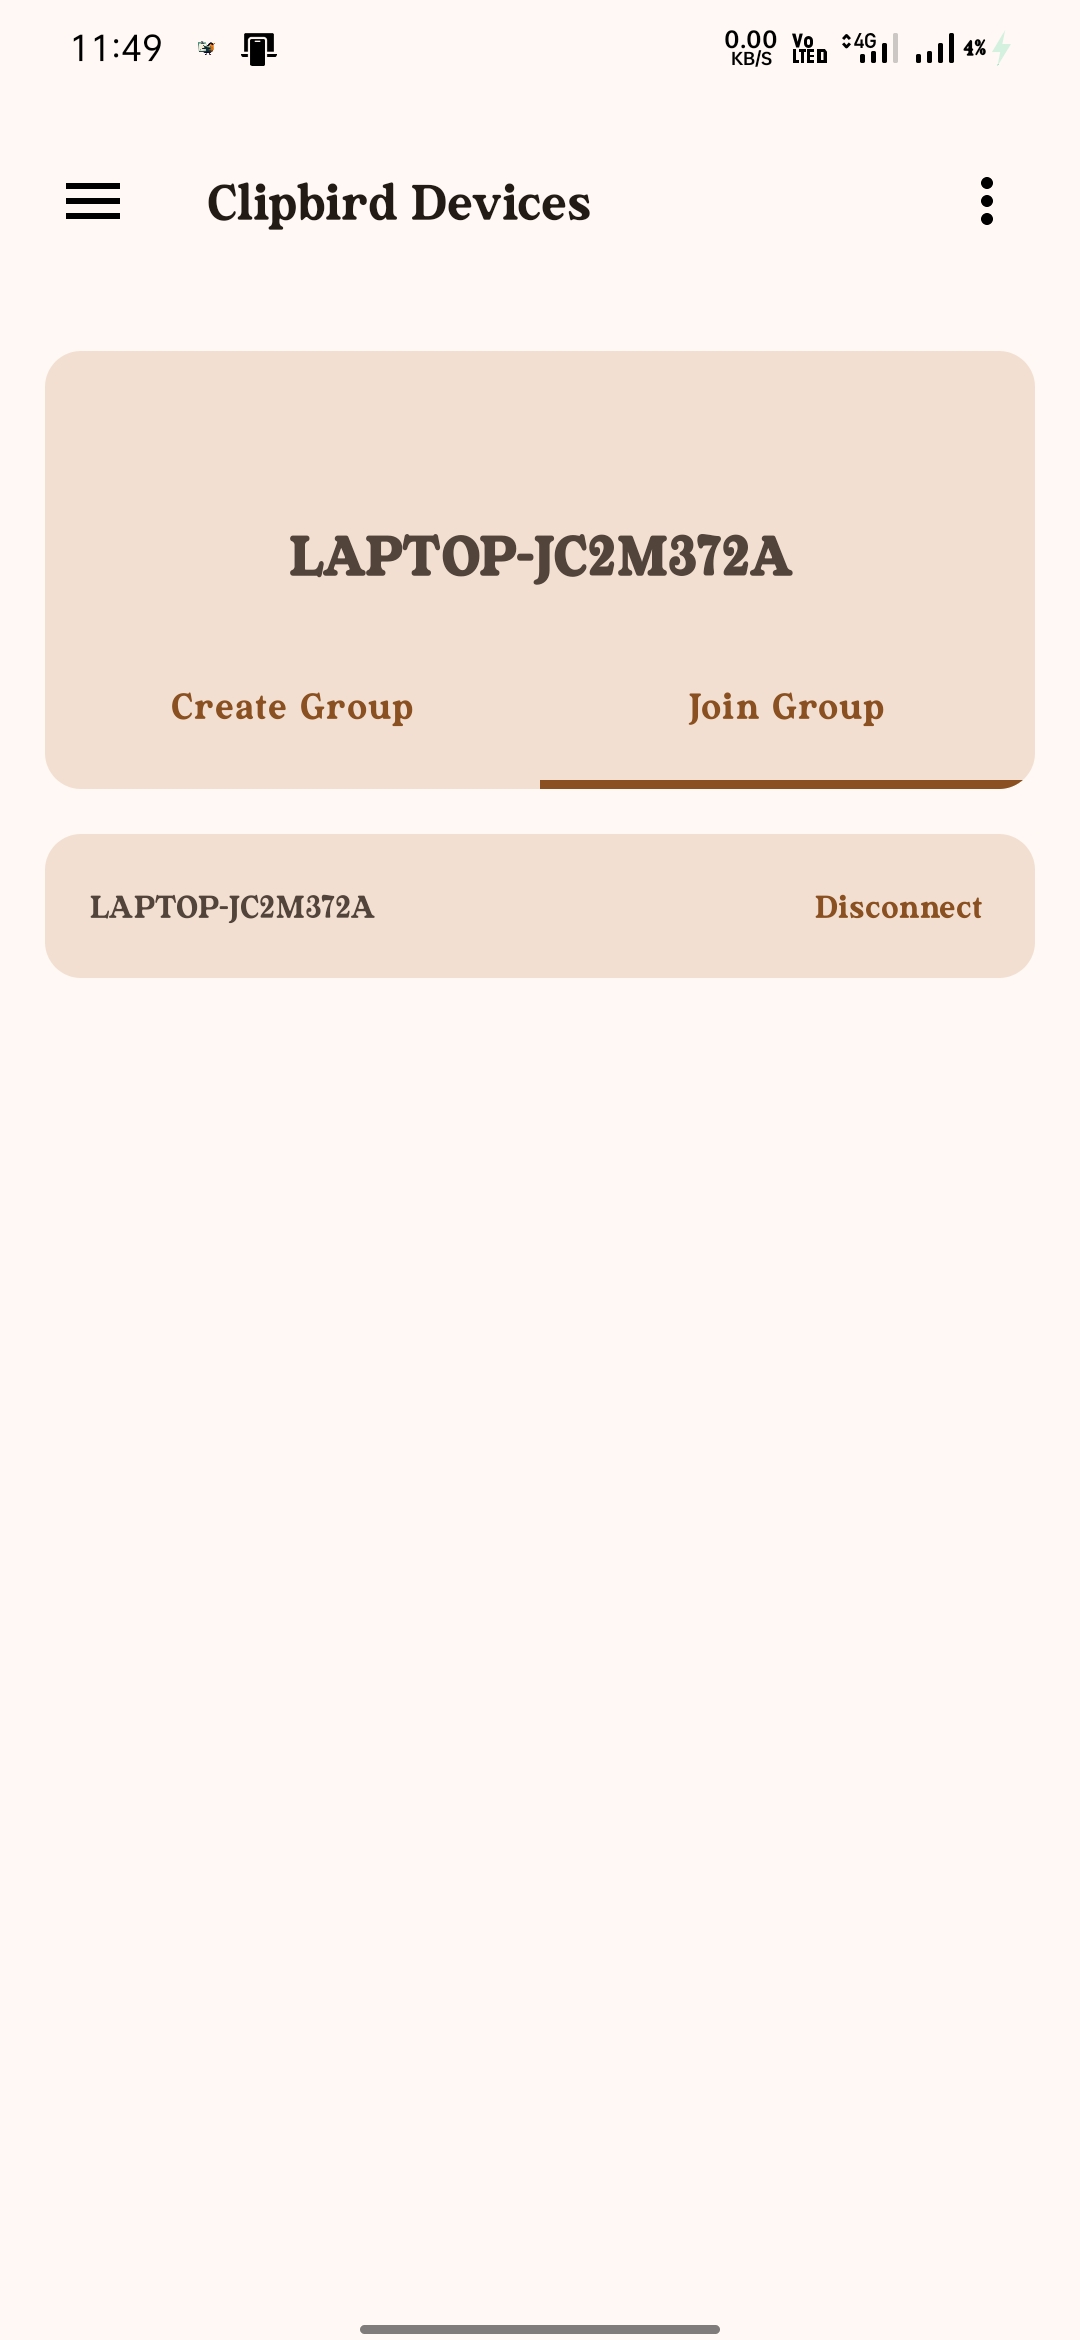
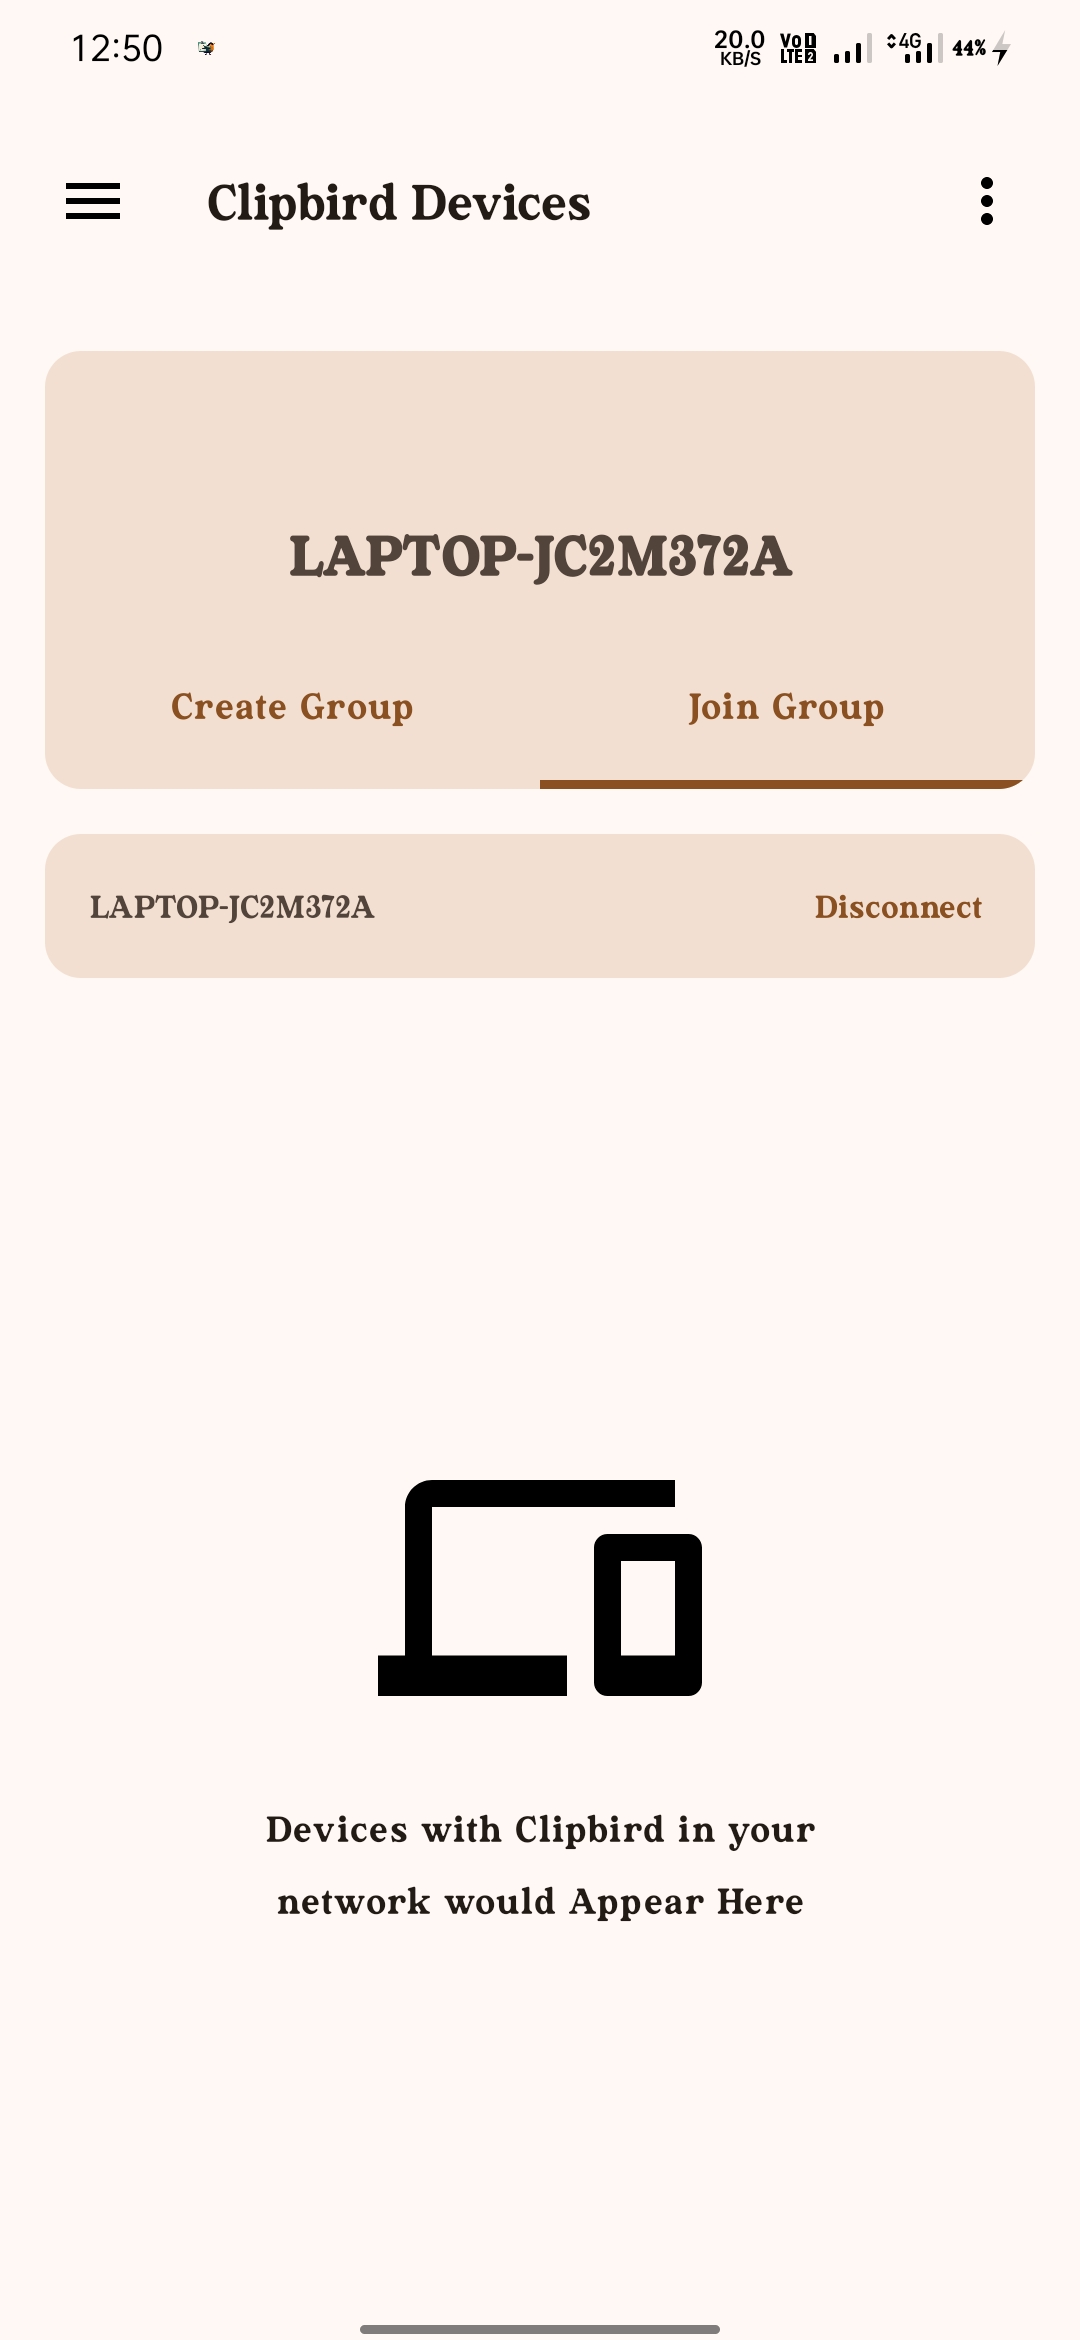
Update on the App GUI

diff --git a/app/src/main/java/com/srilakshmikanthanp/clipbirdroid/ui/gui/screens/AboutUs.kt b/app/src/main/java/com/srilakshmikanthanp/clipbirdroid/ui/gui/screens/AboutUs.kt
@@ -3,14 +3,17 @@ package com.srilakshmikanthanp.clipbirdroid.ui.gui.screens
 import android.content.Intent
 import android.net.Uri
 import androidx.compose.foundation.Image
+import androidx.compose.foundation.clickable
 import androidx.compose.foundation.layout.Arrangement
+import androidx.compose.foundation.layout.Box
 import androidx.compose.foundation.layout.Column
 import androidx.compose.foundation.layout.PaddingValues
 import androidx.compose.foundation.layout.Row
 import androidx.compose.foundation.layout.fillMaxWidth
 import androidx.compose.foundation.layout.padding
 import androidx.compose.foundation.layout.size
-import androidx.compose.material3.ElevatedCard
+import androidx.compose.foundation.shape.RoundedCornerShape
+import androidx.compose.material3.Card
 import androidx.compose.material3.ExperimentalMaterial3Api
 import androidx.compose.material3.IconButton
 import androidx.compose.material3.Scaffold
@@ -19,13 +22,15 @@ import androidx.compose.material3.TopAppBar
 import androidx.compose.runtime.Composable
 import androidx.compose.ui.Alignment
 import androidx.compose.ui.Modifier
-import androidx.compose.ui.graphics.Color
+import androidx.compose.ui.draw.clip
 import androidx.compose.ui.platform.LocalContext
 import androidx.compose.ui.res.painterResource
 import androidx.compose.ui.res.stringResource
+import androidx.compose.ui.text.style.TextAlign
 import androidx.compose.ui.tooling.preview.Preview
 import androidx.compose.ui.unit.dp
 import androidx.compose.ui.unit.sp
+import com.google.android.gms.oss.licenses.OssLicensesMenuActivity
 import com.srilakshmikanthanp.clipbirdroid.R
 import com.srilakshmikanthanp.clipbirdroid.constant.appDonatePage
 import com.srilakshmikanthanp.clipbirdroid.constant.appHomePage
@@ -37,11 +42,11 @@ import com.srilakshmikanthanp.clipbirdroid.constant.appVersion
  */
 @OptIn(ExperimentalMaterial3Api::class)
 @Composable
-private fun Action(icon: Int, text: String, modifier: Modifier, onClick: () -> Unit) {
-  ElevatedCard(modifier = modifier, onClick = onClick) {
+private fun Action(icon: Int, text: String, modifier: Modifier) {
+  Box(modifier = modifier) {
     Column(
       horizontalAlignment = Alignment.CenterHorizontally,
-      modifier = Modifier.padding(10.dp).fillMaxWidth()
+      modifier = Modifier.padding(10.dp).fillMaxWidth(),
     ) {
       Image(painter = painterResource(icon), contentDescription = stringResource(id = R.string.icon))
       Text(text = text, fontSize = 12.sp, modifier = Modifier.padding(5.dp))
@@ -76,6 +81,11 @@ fun AboutUs(onMenuClick: () -> Unit = {}) {
     context.startActivity(intent)
   }
 
+  // on License Click
+  val onLicenseClick = {
+    context.startActivity(Intent(context, OssLicensesMenuActivity::class.java))
+  }
+
   // Menu Icon for the Top Bar
   val menuIcon = @Composable {
     IconButton(onClick = onMenuClick) {
@@ -95,31 +105,71 @@ fun AboutUs(onMenuClick: () -> Unit = {}) {
   // Render the Screen
   val content = @Composable { padding : PaddingValues ->
     Column(
-      modifier = Modifier.fillMaxWidth().padding(padding),
+      modifier = Modifier
+        .fillMaxWidth()
+        .padding(padding),
       horizontalAlignment = Alignment.CenterHorizontally,
     ) {
-      // Show the Clip Bird Logo
-      Image(
-        painter = painterResource(R.mipmap.ic_launcher_foreground),
-        modifier = Modifier.size(140.dp),
-        contentDescription = stringResource(id = R.string.logo),
-      )
+      Card (
+        modifier = Modifier
+          .fillMaxWidth()
+          .padding(15.dp)
+      ) {
+        Column (
+          horizontalAlignment = Alignment.CenterHorizontally,
+          modifier = Modifier.padding(2.dp),
+          verticalArrangement = Arrangement.Center
+        ) {
+          // Show the Clip Bird Logo
+          Image(
+            painter = painterResource(R.mipmap.ic_launcher_foreground),
+            modifier = Modifier.size(140.dp),
+            contentDescription = stringResource(id = R.string.logo),
+          )
 
-      // Show the Version
-      Text(
-        text  = "Version ${appVersion()}",
-        color = Color.Gray
-      )
+          // Show the Version
+          Text(
+            text  = "Version ${appVersion()}",
+          )
+
+          // Show the About Us
+          Text(
+            text  = stringResource(R.string.about_us),
+            modifier = Modifier.padding(10.dp),
+            textAlign = TextAlign.Center
+          )
+        }
+      }
 
       // Show the Icons
       Row(
         horizontalArrangement = Arrangement.SpaceEvenly,
         modifier = Modifier.padding(vertical = 10.dp)
       ) {
-        val cardModifier = Modifier.weight(1f).fillMaxWidth().padding(10.dp)
-        Action(R.drawable.browser,  stringResource(id = R.string.website), cardModifier , onWebsiteOpen)
-        Action(R.drawable.bug,  stringResource(id = R.string.report_issue), cardModifier, onIssueReport)
-        Action(R.drawable.money,stringResource(id = R.string.donate) , cardModifier, onDonation)
+        val modifierBuilder = { onClick: () -> Unit ->
+          Modifier
+            .fillMaxWidth()
+            .weight(1f)
+            .padding(10.dp)
+            .clip(RoundedCornerShape(8.dp))
+            .clickable {
+              onClick()
+            }
+        }
+
+        Action(R.drawable.browser,  stringResource(id = R.string.website), modifierBuilder(onWebsiteOpen))
+        Action(R.drawable.bug,  stringResource(id = R.string.report_issue), modifierBuilder(onIssueReport))
+        Action(R.drawable.money,stringResource(id = R.string.donate) , modifierBuilder(onDonation))
+      }
+
+      // Open Source License
+      Card (
+        modifier = Modifier.fillMaxWidth().padding(15.dp).clickable { onLicenseClick() }
+      ) {
+        Text(
+          modifier = Modifier.padding(10.dp),
+          text = stringResource(id = R.string.open_source_licenses)
+        )
       }
     }
   }

diff --git a/app/src/main/java/com/srilakshmikanthanp/clipbirdroid/ui/gui/screens/Devices.kt b/app/src/main/java/com/srilakshmikanthanp/clipbirdroid/ui/gui/screens/Devices.kt
@@ -1,20 +1,21 @@
 package com.srilakshmikanthanp.clipbirdroid.ui.gui.screens
 
 import androidx.compose.foundation.Image
+import androidx.compose.foundation.layout.Arrangement
 import androidx.compose.foundation.layout.Box
 import androidx.compose.foundation.layout.Column
 import androidx.compose.foundation.layout.PaddingValues
-import androidx.compose.foundation.layout.Row
+import androidx.compose.foundation.layout.fillMaxHeight
 import androidx.compose.foundation.layout.fillMaxSize
 import androidx.compose.foundation.layout.fillMaxWidth
 import androidx.compose.foundation.layout.padding
+import androidx.compose.foundation.layout.width
 import androidx.compose.foundation.lazy.LazyColumn
 import androidx.compose.material3.Card
 import androidx.compose.material3.DropdownMenu
 import androidx.compose.material3.DropdownMenuItem
 import androidx.compose.material3.ExperimentalMaterial3Api
 import androidx.compose.material3.IconButton
-import androidx.compose.material3.MaterialTheme
 import androidx.compose.material3.Scaffold
 import androidx.compose.material3.Tab
 import androidx.compose.material3.TabRow
@@ -34,6 +35,7 @@ import androidx.compose.ui.platform.LocalContext
 import androidx.compose.ui.platform.LocalDensity
 import androidx.compose.ui.res.painterResource
 import androidx.compose.ui.res.stringResource
+import androidx.compose.ui.text.style.TextAlign
 import androidx.compose.ui.tooling.preview.Preview
 import androidx.compose.ui.unit.dp
 import androidx.compose.ui.unit.sp
@@ -88,23 +90,34 @@ private fun ServerGroup(controller: AppController) {
     setupServer(); onDispose(disposeServer)
   }
 
-  // HostList
-  Card (modifier = Modifier.padding(15.dp, 0.dp, 15.dp, 15.dp)) {
-    LazyColumn(modifier = Modifier.fillMaxWidth()) {
-      items(clients.size) { i ->
-        val modifier = Modifier
-          .fillMaxWidth()
-          .padding(horizontal = 5.dp)
-        val onAction = { d: DeviceActionable -> controller.disconnectClient(d.first) }
-        Host(clients[i], modifier, onAction)
-      }
-    }
-  }
-
   // if no servers
   if (clients.isEmpty()) {
-    Box(modifier = Modifier.fillMaxSize(), contentAlignment = Alignment.Center) {
-      Text(text = stringResource(id = R.string.no_devices), fontSize = 16.sp, color = Color.Gray)
+    Column (
+      horizontalAlignment = Alignment.CenterHorizontally,
+      verticalArrangement = Arrangement.Center,
+      modifier = Modifier.fillMaxWidth().fillMaxHeight(),
+    ) {
+      Image(
+        contentDescription = stringResource(id = R.string.devices_server_prompt),
+        painter = painterResource(id = R.drawable.devices),
+        modifier = Modifier.fillMaxSize(0.3f)
+      )
+
+      Text(
+        text = stringResource(id = R.string.devices_server_prompt),
+        textAlign = TextAlign.Center,
+        modifier = Modifier.width(200.dp),
+      )
+    }
+  } else {
+    Card (modifier = Modifier.padding(15.dp, 0.dp, 15.dp, 15.dp)) {
+      LazyColumn(modifier = Modifier.fillMaxWidth()) {
+        items(clients.size) { i ->
+          val modifier = Modifier.fillMaxWidth().padding(horizontal = 5.dp)
+          val onAction = { d: DeviceActionable -> controller.disconnectClient(d.first) }
+          Host(clients[i], modifier, onAction)
+        }
+      }
     }
   }
 }
@@ -184,34 +197,31 @@ private fun ClientGroup(controller: AppController) {
       }
     }
 
-    // Other Groups
-    if (servers.isNotEmpty()) {
-      Row (
-        verticalAlignment = Alignment.CenterVertically,
-        modifier = Modifier.padding(15.dp)
+    if (servers.isEmpty()) {
+      Column (
+        horizontalAlignment = Alignment.CenterHorizontally,
+        verticalArrangement = Arrangement.Center,
+        modifier = Modifier.fillMaxWidth().fillMaxHeight(),
       ) {
+        Image(
+          contentDescription = stringResource(id = R.string.devices_client_prompt),
+          painter = painterResource(id = R.drawable.devices),
+          modifier = Modifier.fillMaxSize(0.3f)
+        )
+
         Text(
-          text = stringResource(id = R.string.other_groups),
-          fontSize = 12.sp,
-          color = MaterialTheme.colorScheme.surfaceVariant
+          text = stringResource(id = R.string.devices_client_prompt),
+          textAlign = TextAlign.Center,
+          modifier = Modifier.width(200.dp),
         )
       }
-    }
-
-    // List of Hosts
-    Card (modifier = Modifier.padding(15.dp, 0.dp, 15.dp, 15.dp)) {
-      // Render the Remaining Groups
-      LazyColumn(modifier = Modifier.fillMaxWidth()) {
-        items(servers.size) { i ->
-          Host(servers[i], modifier, onAction =  { onAction(it.first, it.second) })
+    } else {
+      Card (modifier = Modifier.padding(15.dp)) {
+        LazyColumn(modifier = Modifier.fillMaxWidth()) {
+          items(servers.size) { i ->
+            Host(servers[i], modifier, onAction =  { onAction(it.first, it.second) })
+          }
         }
-      }
-    }
-
-    // if no servers
-    if (servers.isEmpty() && group == null) {
-      Box(modifier = Modifier.fillMaxSize(), contentAlignment = Alignment.Center) {
-        Text(text = stringResource(id = R.string.no_devices), fontSize = 16.sp, color = Color.Gray)
       }
     }
   }

diff --git a/app/src/main/java/com/srilakshmikanthanp/clipbirdroid/ui/gui/screens/History.kt b/app/src/main/java/com/srilakshmikanthanp/clipbirdroid/ui/gui/screens/History.kt
@@ -1,12 +1,16 @@
 package com.srilakshmikanthanp.clipbirdroid.ui.gui.screens
 
 import androidx.compose.foundation.Image
+import androidx.compose.foundation.layout.Arrangement
 import androidx.compose.foundation.layout.Box
 import androidx.compose.foundation.layout.Column
 import androidx.compose.foundation.layout.PaddingValues
 import androidx.compose.foundation.layout.Spacer
+import androidx.compose.foundation.layout.fillMaxHeight
+import androidx.compose.foundation.layout.fillMaxSize
 import androidx.compose.foundation.layout.fillMaxWidth
 import androidx.compose.foundation.layout.padding
+import androidx.compose.foundation.layout.width
 import androidx.compose.material3.ExperimentalMaterial3Api
 import androidx.compose.material3.IconButton
 import androidx.compose.material3.Scaffold
@@ -20,6 +24,7 @@ import androidx.compose.ui.Modifier
 import androidx.compose.ui.platform.LocalContext
 import androidx.compose.ui.res.painterResource
 import androidx.compose.ui.res.stringResource
+import androidx.compose.ui.text.style.TextAlign
 import androidx.compose.ui.tooling.preview.Preview
 import androidx.compose.ui.unit.dp
 import com.srilakshmikanthanp.clipbirdroid.R
@@ -89,15 +94,33 @@ fun History(controller: AppController, onMenuClick: () -> Unit = {}) {
           onSend = sendHandler,
         )
 
-        // White Space
-        Spacer(modifier = Modifier.padding(10.dp))
+        if (history.isEmpty()) {
+          Column (
+            horizontalAlignment = Alignment.CenterHorizontally,
+            verticalArrangement = Arrangement.Center,
+            modifier = Modifier.fillMaxWidth().fillMaxHeight(),
+          ) {
+            Image(
+              contentDescription = stringResource(id = R.string.history_prompt),
+              painter = painterResource(id = R.drawable.history),
+              modifier = Modifier.fillMaxSize(0.3f)
+            )
 
-        // Clip History
-        ClipHistory(
-          clipHistory = history,
-          onCopy = onCopy,
-          onDelete = onDelete,
-        )
+            Text(
+              text = stringResource(id = R.string.history_prompt),
+              textAlign = TextAlign.Center,
+              modifier = Modifier.width(200.dp),
+            )
+          }
+        } else {
+          Spacer(modifier = Modifier.padding(15.dp))
+
+          ClipHistory(
+            clipHistory = history,
+            onCopy = onCopy,
+            onDelete = onDelete,
+          )
+        }
       }
     }
   }
